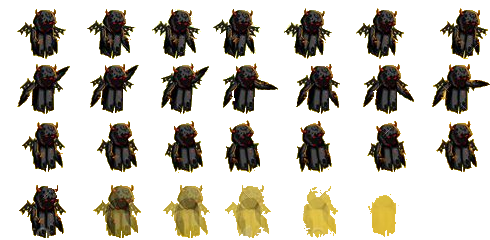
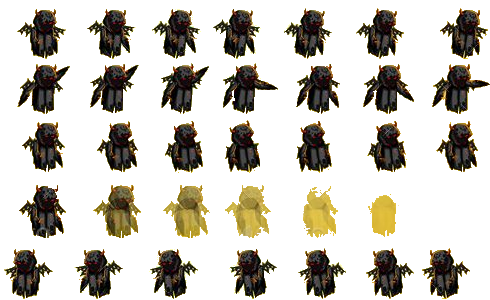
sprites and some code relating to it

diff --git a/Physics/Source/SceneBase.cpp b/Physics/Source/SceneBase.cpp
@@ -349,52 +349,56 @@ void SceneBase::Init()
 	//Add the animations
 	boss_slime->AddAnimation("Idle", 0, 3);
 	boss_slime->AddAnimation("Jump", 4, 15);
-	boss_slime->AddAnimation("Move Right", 16, 22);
-	boss_slime->AddAnimation("Move Left", 23, 30);
+	boss_slime->AddAnimation("MoveRight", 16, 22);
+	boss_slime->AddAnimation("MoveLeft", 23, 30);
 
 
 	//Vampire
-	meshList[GEO_VAMPIRE] = MeshBuilder::GenerateSpriteAnimation("Vampire", 4, 7);
+	meshList[GEO_VAMPIRE] = MeshBuilder::GenerateSpriteAnimation("Vampire", 5, 7);
 	meshList[GEO_VAMPIRE]->textureID = LoadTexture("Image//vampireSS.png", true);
 	meshList[GEO_VAMPIRE]->material.kAmbient.Set(1, 1, 1);
 	SpriteAnimation* vampire = dynamic_cast<SpriteAnimation*>(meshList[GEO_VAMPIRE]);
 	//Add the animations
 	vampire->AddAnimation("Attack", 7, 12);
 	vampire->AddAnimation("MoveRight", 0, 5);
+	vampire->AddAnimation("MoveLeft", 28, 33);
 	vampire->AddAnimation("Die", 21, 27);
 	vampire->AddAnimation("Hurt", 14, 19);
 
 
 	//Ghost
-	meshList[GEO_GHOST] = MeshBuilder::GenerateSpriteAnimation("Ghost", 4, 7);
+	meshList[GEO_GHOST] = MeshBuilder::GenerateSpriteAnimation("Ghost", 5, 7);
 	meshList[GEO_GHOST]->textureID = LoadTexture("Image//GhostSS.png", true);
 	meshList[GEO_GHOST]->material.kAmbient.Set(1, 1, 1);
 	SpriteAnimation* ghost = dynamic_cast<SpriteAnimation*>(meshList[GEO_GHOST]);
 	//Add the animations
 	ghost->AddAnimation("Attack", 7, 13);
 	ghost->AddAnimation("MoveRight", 0, 6);
+	ghost->AddAnimation("MoveLeft", 28, 34);
 	ghost->AddAnimation("Die", 21, 26);
 	ghost->AddAnimation("Hurt", 14, 20);
 
 
 	//Skeleton
-	meshList[GEO_SKELETON] = MeshBuilder::GenerateSpriteAnimation("Skeleton", 3, 7);
+	meshList[GEO_SKELETON] = MeshBuilder::GenerateSpriteAnimation("Skeleton", 4, 7);
 	meshList[GEO_SKELETON]->textureID = LoadTexture("Image//SkeletonSS.png", true);
 	meshList[GEO_SKELETON]->material.kAmbient.Set(1, 1, 1);
 	SpriteAnimation* skeleton = dynamic_cast<SpriteAnimation*>(meshList[GEO_SKELETON]);
 	//Add the animations
 	skeleton->AddAnimation("Attack", 7, 13);
 	skeleton->AddAnimation("MoveRight", 0, 6);
+	skeleton->AddAnimation("MoveLeft", 21, 27);
 	skeleton->AddAnimation("Die", 14, 20);
 
 	//Spider
-	meshList[GEO_SPIDER] = MeshBuilder::GenerateSpriteAnimation("Spider", 3, 8);
+	meshList[GEO_SPIDER] = MeshBuilder::GenerateSpriteAnimation("Spider", 4, 8);
 	meshList[GEO_SPIDER]->textureID = LoadTexture("Image//spiderSS.png", true);
 	meshList[GEO_SPIDER]->material.kAmbient.Set(1, 1, 1);
 	SpriteAnimation* spider = dynamic_cast<SpriteAnimation*>(meshList[GEO_SPIDER]);
 	//Add the animations
 	spider->AddAnimation("Attack", 8, 13);
 	spider->AddAnimation("MoveRight", 0, 7);
+	spider->AddAnimation("MoveLeft", 24, 31);
 	spider->AddAnimation("Die", 16, 22);
 
 	//Boundary

diff --git a/Physics/Source/Enemy.cpp b/Physics/Source/Enemy.cpp
@@ -22,30 +22,30 @@ void Enemy::Update(const double dElapsedTime)
 	//Update enemy movement to chase player
 	
 	//Change enemy states in response to the direction they are moving
-	SpriteAnimation* bs = dynamic_cast<SpriteAnimation*>(boss_slime);
-	if (hp > 0)
-	{
-		if (vel.x < 0)
-		{
-			bs->PlayAnimation("Move Left", -1, 2.f);
-		}
-		else if (vel.x > 0)
-		{
-			bs->PlayAnimation("Move Right", -1, 2.f);
-		}
-		else
-		{
-			bs->PlayAnimation("Idle", -1, 2.f);
-		}
-		if (vel.y < 0)
-		{
-			bs->PlayAnimation("Idle", -1, 2.f);
-		}
-		else
-		{
-			bs->PlayAnimation("Idle", -1, 2.f);
-		}
-	}
+	//SpriteAnimation* bs = dynamic_cast<SpriteAnimation*>(boss_slime);
+	//if (hp > 0)
+	//{
+	//	if (vel.x < 0)
+	//	{
+	//		bs->PlayAnimation("Move Left", -1, 2.f);
+	//	}
+	//	else if (vel.x > 0)
+	//	{
+	//		bs->PlayAnimation("Move Right", -1, 2.f);
+	//	}
+	//	else
+	//	{
+	//		bs->PlayAnimation("Idle", -1, 2.f);
+	//	}
+	//	if (vel.y < 0)
+	//	{
+	//		bs->PlayAnimation("Idle", -1, 2.f);
+	//	}
+	//	else
+	//	{
+	//		bs->PlayAnimation("Idle", -1, 2.f);
+	//	}
+	//}
 }
 
 void Enemy::setSpawn(float playerX, float playerY, Vector3& pos)
